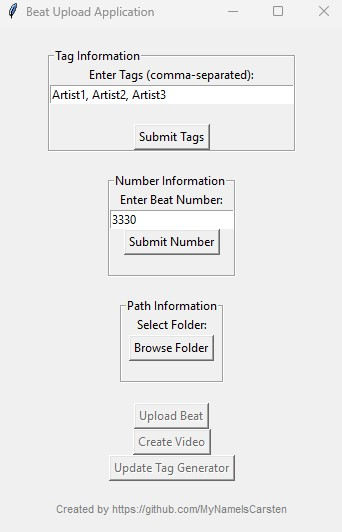
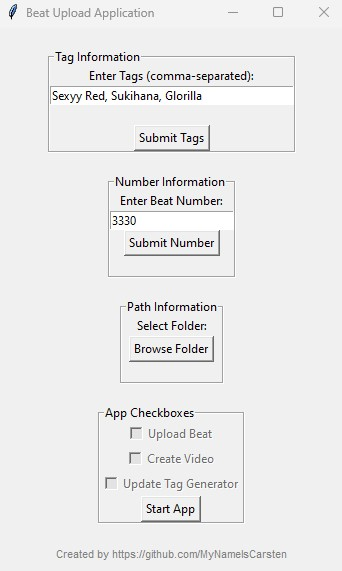
Updated GUI with checkboxes

diff --git a/GUI.py b/GUI.py
@@ -16,7 +16,7 @@ from tkinter import messagebox
 class BeatUploadApp:
     def __init__(self, root):
         self.root = root
-        self.root.geometry('350x510')
+        self.root.geometry('350x580')
 
         self.root.title("Beat Upload Application")
 
@@ -36,13 +36,18 @@ class BeatUploadApp:
         self.path_frame = tk.LabelFrame(self.third_frame, text='Path Information')
         self.path_frame.pack(pady=(20, 0))
 
+        self.fourth_frame = tk.Frame(root)
+        self.fourth_frame.pack()
+        self.check_frame = tk.LabelFrame(self.fourth_frame, text='App Checkboxes')
+        self.check_frame.pack(pady=(20, 0))
+
 
 
         self.tags_label = tk.Label(self.tag_frame, text="Enter Tags (comma-separated):")
         self.tags_label.pack()
 
         self.tags_entry = tk.Entry(self.tag_frame, width=40)
-        self.tags_entry.insert(INSERT, "Artist1, Artist2, Artist3")
+        self.tags_entry.insert(INSERT, "Sexyy Red, Sukihana, Glorilla")
         self.tags_entry.pack()
 
         self.tags_display = tk.Label(self.tag_frame, text="", font=("Helvetica", 8, "bold"))
@@ -73,14 +78,29 @@ class BeatUploadApp:
         self.folder_display = tk.Label(self.path_frame, text="", font=("Helvetica", 8, "bold"))
         self.folder_display.pack()
 
-        self.upload_button = tk.Button(self.root, text="Upload Beat", command=self.upload_beat, state="disabled")
-        self.upload_button.pack(pady = (20, 0))
+        #self.upload_button = tk.Button(self.root, text="Upload Beat", command=self.upload_beat, state="disabled")
+        #self.upload_button.pack(pady = (20, 0))
+        self.beat_state = tk.IntVar()
+        self.beat_checkbutton = tk.Checkbutton(self.check_frame, text='Upload Beat', variable=self.beat_state, state='disabled')
+        self.beat_checkbutton.pack()
 
-        self.video_button = tk.Button(self.root, text="Create Video", command=self.create_video, state="disabled")
-        self.video_button.pack()
 
-        self.tag_button = tk.Button(self.root, text="Update Tag Generator", command=self.update_tag_generator, state="disabled")
-        self.tag_button.pack()
+        #self.video_button = tk.Button(self.root, text="Create Video", command=self.create_video, state="disabled")
+        #self.video_button.pack()
+        self.video_state = tk.IntVar()
+        self.video_checkbutton = tk.Checkbutton(self.check_frame, text='Create Video', variable=self.video_state,  state='disabled')
+        self.video_checkbutton.pack()
+
+
+        #self.tag_button = tk.Button(self.root, text="Update Tag Generator", command=self.update_tag_generator, state="disabled")
+        #self.tag_button.pack()
+        self.tag_state = tk.IntVar()
+        self.tag_checkbutton = tk.Checkbutton(self.check_frame, text='Update Tag Generator', variable=self.tag_state,  state='disabled')
+        self.tag_checkbutton.pack()
+
+
+        self.start_button = tk.Button(self.check_frame, text="Start App", command=self.start_app)
+        self.start_button.pack()
 
         self.cred_label = tk.Label(self.root, text="Created by https://github.com/MyNameIsCarsten", font=("Helvetica", 8), fg="grey")
         self.cred_label.pack(pady = 20)
@@ -99,9 +119,11 @@ class BeatUploadApp:
         if entered_number.isdigit():
             self.number = int(entered_number)
             self.number_display.config(text=f"Submitted Number: {self.number}", fg="grey")
-            self.upload_button.config(state="normal")
-            self.video_button.config(state="normal")
-            self.tag_button.config(state="normal")
+            self.submit_number_button.config(state="disabled")
+            #self.upload_button.config(state="normal")
+            #self.video_button.config(state="normal")
+            #self.tag_button.config(state="normal")
+
         else:
             self.number_display.config(text="Invalid Input", fg="red")
 
@@ -109,16 +131,17 @@ class BeatUploadApp:
         self.selected_folder = filedialog.askdirectory()
         self.folder_display.config(text=f"{self.selected_folder}", fg="grey")
         self.dir_path = os.path.dirname(self.selected_folder)
-        self.submit_tags_button.config(state="normal")
+        self.folder_button.config(state="disabled")
+        self.beat_checkbutton.config(state="normal")
+        self.tag_checkbutton.config(state="normal")
+        self.video_checkbutton.config(state="normal")
 
     def submit_tags(self):
         entered_tags = self.tags_entry.get()
         self.tags = [tag.strip() for tag in entered_tags.split(',')]
         self.tags_display.config(text=f"{self.tags}", fg="grey")
         self.submit_tags_button.config(state="disabled")
-        self.upload_button.config(state="normal")
-        self.video_button.config(state="normal")
-        self.tag_button.config(state="normal")
+
 
     def upload_beat(self):
         self.folder_path = self.selected_folder.split('/')[-1]
@@ -130,6 +153,8 @@ class BeatUploadApp:
             beatstars(self.number, self.bpm, self.name, self.key, self.tags, self.folder_path, self.dir_path, driver_path)
         self.upload_button.config(state="disabled")
 
+
+
     def create_video(self):
         if self.folder_path:
             bpm, key, name = get_bpm_key(mp3_path(self.number, self.folder_path, self.dir_path))  # Assuming "number" is defined somewhere
@@ -138,7 +163,8 @@ class BeatUploadApp:
             shorts_path = fr"D:\Dropbox\Youtube Uploads\Shorts\{self.tags[0]} - {self.name} - Short.mp4"  # Your shorts path
 
             create_video(mp3_path(self.number, self.folder_path, self.dir_path), clip_path, vid_path, shorts_path)
-        self.video_button.config(state="disabled")
+        #self.video_button.config(state="disabled")
+
 
     def update_tag_generator(self):
         tag_workbook_path = r"D:\Dropbox\Youtube Uploads\Tag Generator.xlsx"
@@ -155,7 +181,28 @@ class BeatUploadApp:
         first_sheet["G3"].value = self.tags[1]
 
         workbook.save(filename=tag_workbook_path)
-        self.tag_button.config(state="disabled")
+        #self.tag_button.config(state="disabled")
+        return
+
+    def start_app(self):
+        if self.beat_state.get() == 1:
+            self.upload_beat()
+            self.beat_checkbutton.config(state="disabled")
+        else:
+            pass
+
+        if self.video_state.get() == 1:
+            self.create_video()
+            self.video_checkbutton.config(state="disabled")
+        else:
+            pass
+
+        if self.tag_state.get() == 1:
+            self.update_tag_generator()
+            self.tag_checkbutton.config(state="disabled")
+        else:
+            pass
+
         return
 
 if __name__ == "__main__":

diff --git a/file_path.py b/file_path.py
@@ -3,6 +3,7 @@ import os
 def mp3_path(number:int, folder:str, dir_path:str):
     # For loop to iterate through current path
     # filenames are split into: root, dirs (directory) and files
+    print(dir_path)
     number = "[" + str(number) + "]"
     for root, dirs, files in os.walk(dir_path):
         for file in files:

diff --git a/README.md b/README.md
@@ -55,10 +55,12 @@ number = 0001
 - G-Major
 - G-Sharp-Minor
 
-## After execution
-After you have run the script, you will need to manually choose an upload date and publish your upload.
 
 ## Set-Up (with GUI)
+(Note: Please input the path to your WAV-Files in the file `file_path.py` under:
+
+`dir_path = "D:\Dropbox\Beats\ProfessionalStuff\Beatstars\\1! Wav Files"`)
+
 The newer version of this app features a GUI.
 You can now conveniently input the necessary information.
 
@@ -67,6 +69,7 @@ The app will identify your beat based on the input number.
 
 The `clip_path`, `vid_path` and `driver_path` are set within `GUI.py`.
 Change these to your preferred locations.
+
 
 ## Set-Up (without GUI)
 ### Create .env-File for login credentials
@@ -118,6 +121,10 @@ shorts_path = fr"D:\Dropbox\Youtube Uploads\Shorts\{tags[0]} - {name} - Short.mp
 I have created an Excel file (not part of this project) that I use for creating the YouTube text and tags.
 The "tag_generator.py" module inserts the beat title and 2 of the 3 artist names into this Excel.
 You can comment out this function in "main.py".
+
+## After execution
+After you have run the script, you will need to manually choose an upload date and publish your upload on the opened Chrome window.
+
 
 # Technologies
 The app is based on:
